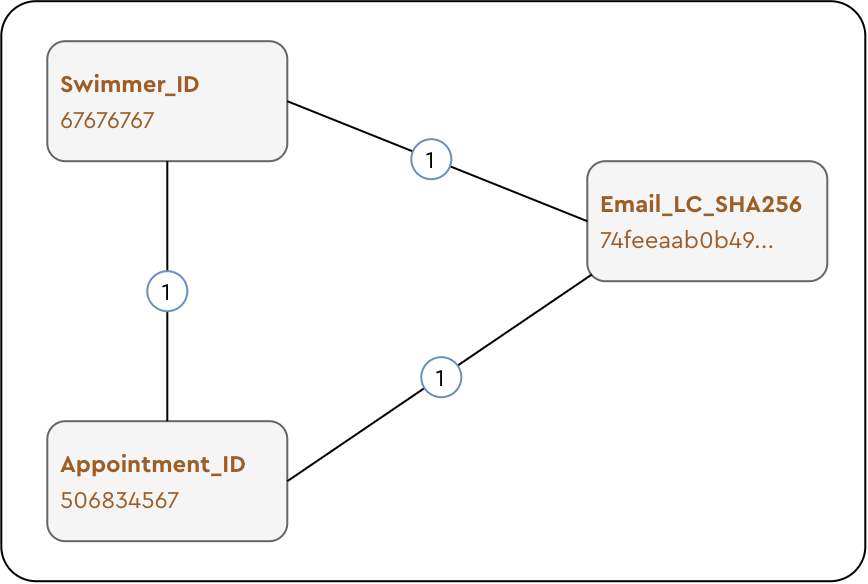
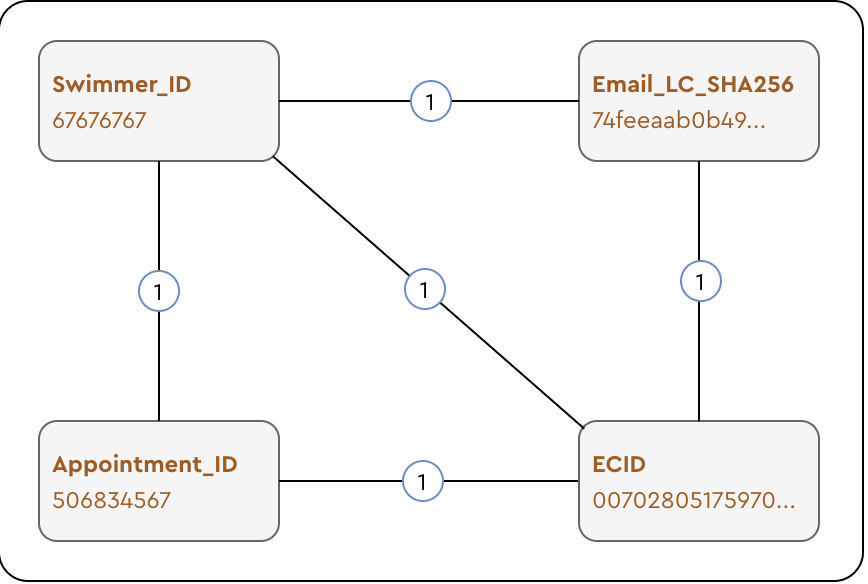
AEP profile strategy, Started schemas

diff --git a/adobe/aep/IdentityStrategy.md b/adobe/aep/IdentityStrategy.md
@@ -1,7 +1,7 @@
 # Guide for Identity Strategy
 
 ## Intro
-I wanted to write a quick guide to succesfully define the profile strategy based on my learnings and experiences. However, this requires to provide context and go over some concepts that are important to understand before defining the strategy.
+I wanted to write a quick guide to successfully define the profile strategy based on my learnings and experiences. However, this requires to provide context and go over some concepts that are important to understand before defining the strategy.
 
 ## What is an Identity Strategy?
 This is key when taking over an Adobe Experience Platform (AEP) implementation, as it's the base on how the project will structure it's data, how the different use-cases will be implemented and how the data will be used to create a single customer view.
@@ -13,7 +13,7 @@ An identity strategy should answer the following questions:
 - What makes a profile unique?
 - How can I identify a profile and which identifiers have priority?
 - What rules does my graph identity follow?
-- How are my schemas structured and how do they relate to each other?
+- How are the schemas structured and profiles stitched together?
 
 ## What makes a profile unique?
 I come from an _transactional_ background, where the unique identifier is usually a primary key in a database, and while this concept is also true in AEP, we must take a step back and see profiles as **objects** first.
@@ -135,18 +135,33 @@ Assuming we have the custom namespaces created, we can now define the identity *
 
 See [Implementation guide for Identity Graph Linking Rules](https://experienceleague.adobe.com/en/docs/experience-platform/identity/features/identity-graph-linking-rules/implementation-guide) for more information.
 
-In this configuration, a profile *uniqness* is defined by the **Swimmer_ID**, and the **Email_LC_SHA256** has priority over the **ECID** or **Appointment_ID**.
+In this configuration, a profile *uniqueness* is defined by the **Swimmer_ID**, and the **Email_LC_SHA256** has priority over the **ECID** or **Appointment_ID**.
 
-## How are my schemas structured and how do they relate to each other?
+## How are the schemas structured and profiles stitched together?
 
 We have:
-- ✅ Identify the profile concepts and how they relate to each other.
+- ✅ Identified the profile concepts and how they relate to each other.
 - ✅ Created namespaces for each one of them.
 - ✅ Defined the rules for the identity linking rules graph.
-
-This last part ensures that our identity strategy is correctly implemented and that profiles can be accurately identified and linked across different identifiers.
 
 > [!CAUTION]
 > When working with schemas, **NEVER** enable the schemas for profile unless **YOU'RE SURE** everything works as expected.
 >
 > **ONCE a schema is enabled for profile, it cannot be deleted**
+
+I know you heard the `never say never` phrase, but in this case, it is true, **never** enable a schema for profile unless you're sure it works as you want, the structure is correct and follows best practices.
+
+<picture>
+  <img src="/adobe/aep/assets/test-in-production-meme-1.jpg" alt="Test in Production Meme" width="550" />
+</picture>
+
+Now that we have the identity graph defined, it's important to set how are all of these identifiers, anc concepts going to be put together in a single profile. This single profile picture is **Union View** and the process to bring all data together is called **Identity stitching**.
+
+> [!NOTE]
+> Identity stitching is the process of identifying data fragments and stitching them together to form a complete record of a profile. Private graph is private map of relationships between stitched and linked identities.
+
+For our example, let's say we have two schemas:
+- **Core Swimmer Profile** used for the main profile information, like name, email address, home address, etc.
+- **Swimmer Appointments** used for storing appointment-related information, like appointment ID, date, time, and location.
+
+
